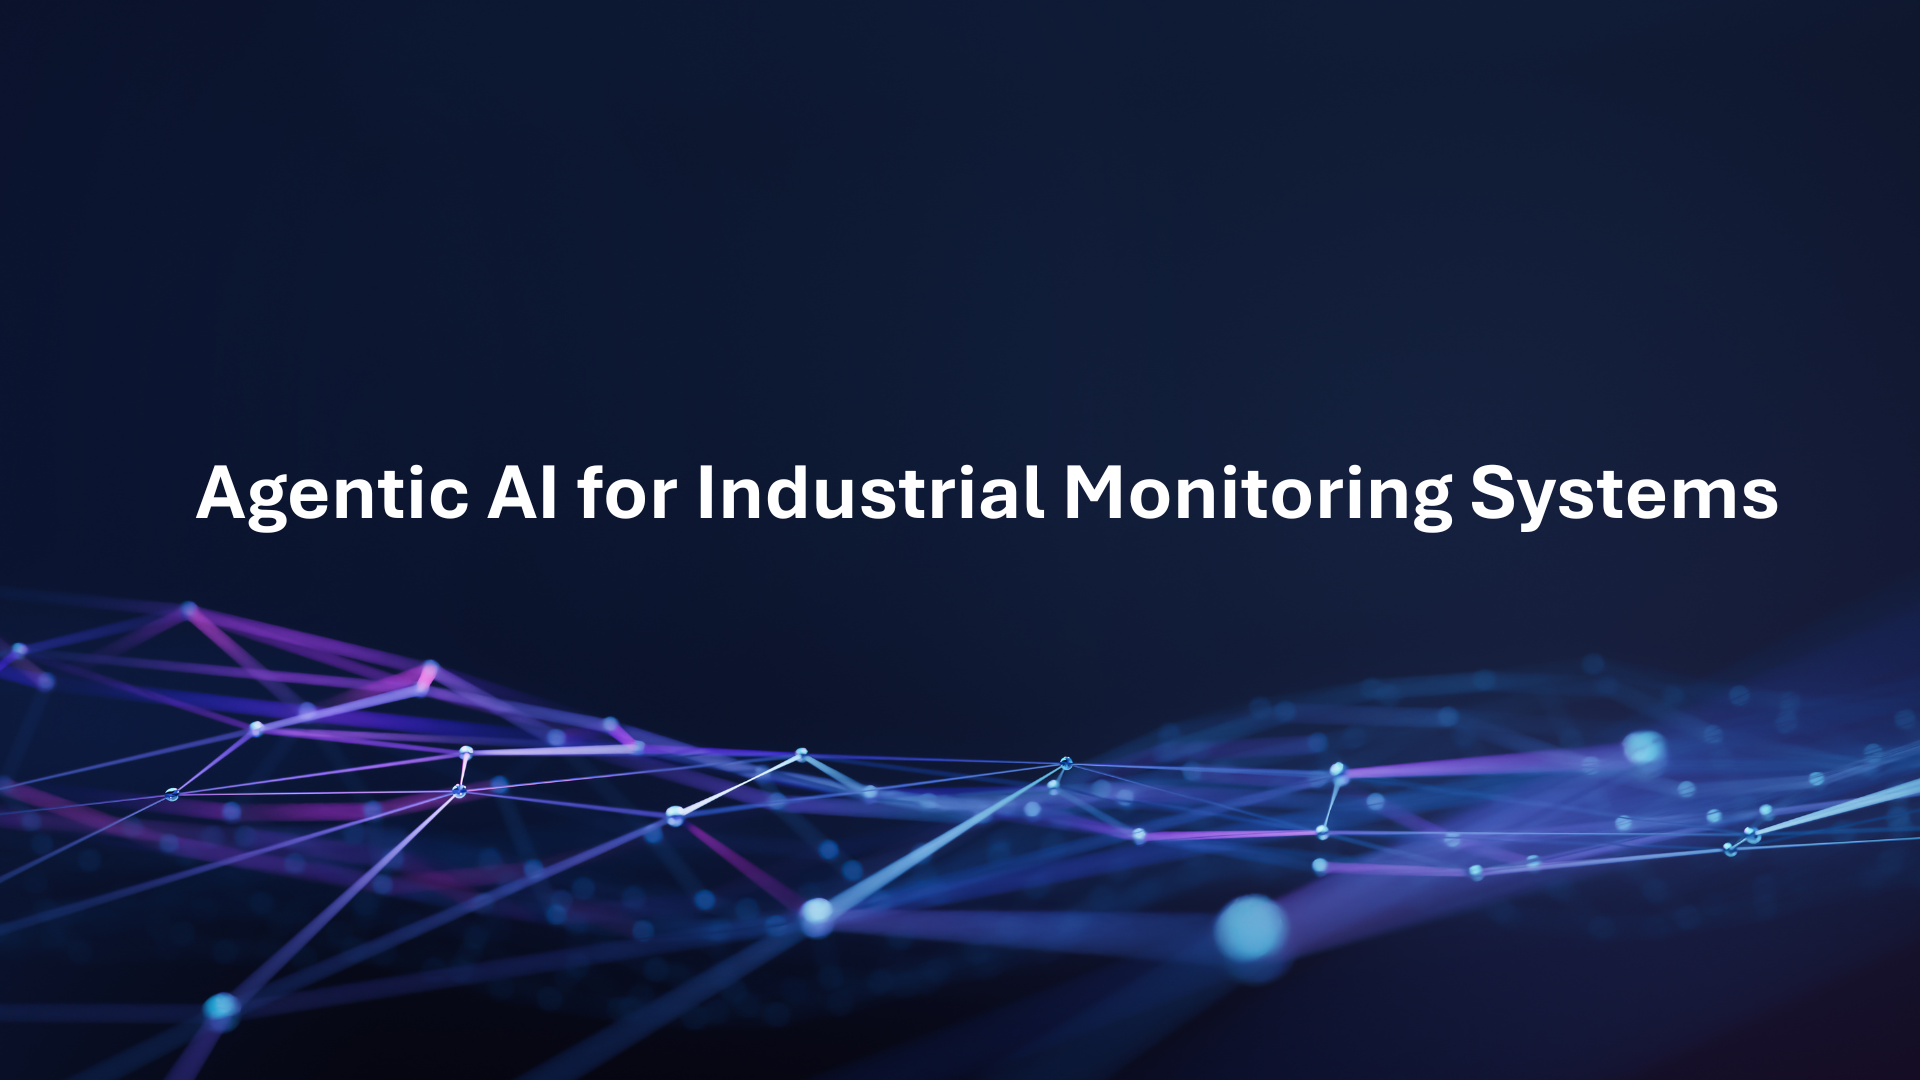
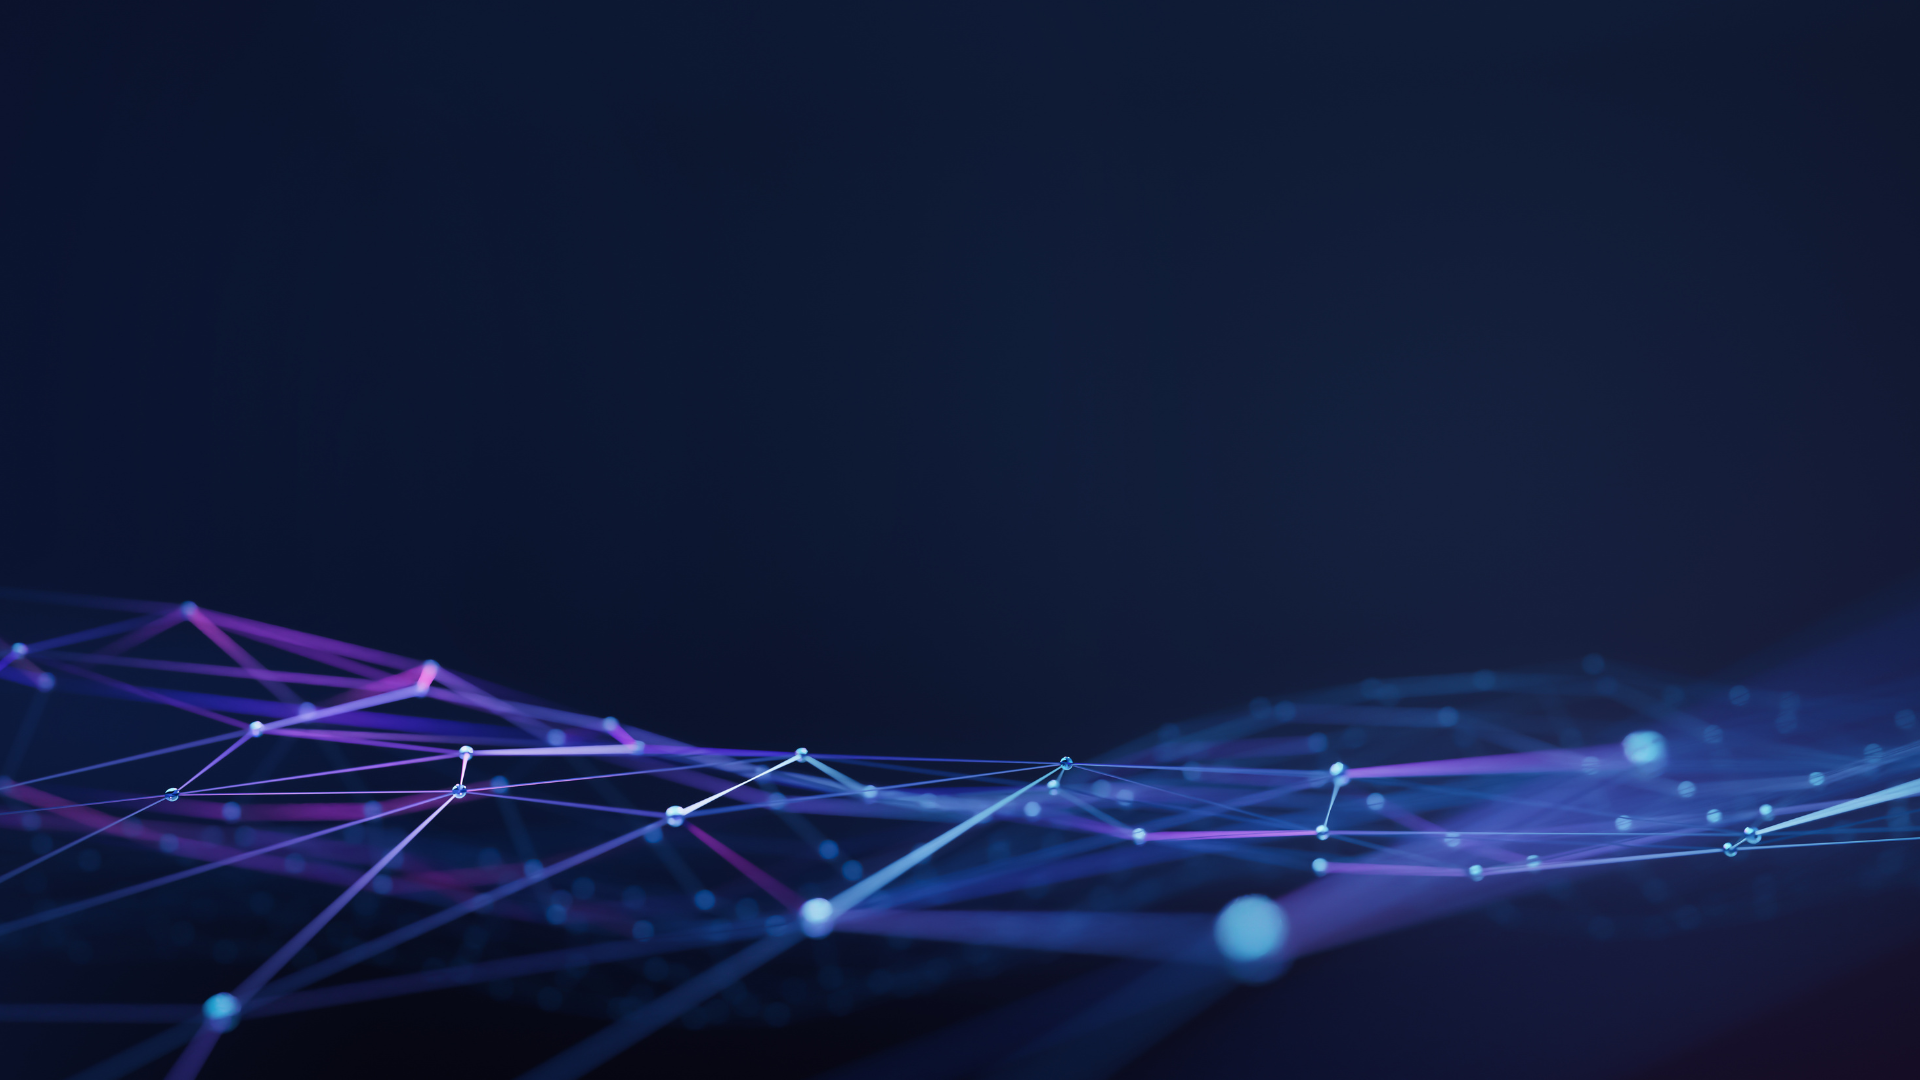
Refactor code structure for improved readability and maintainability

Changed region(s): [[0.0938, 0.4278, 0.9375, 0.4889]]

diff --git a/public/index.html b/public/index.html
@@ -69,7 +69,7 @@
   <div class="flex-l center items-center justify-between">
     <a href="/about" class="f3 fw2 hover-white white-90 dib no-underline">
       
-        Agentic AI for Industrial Monitoring Systems
+        <img src="/img/website/logo.png" class="w100 mw5-ns" alt="Agentic AI for Industrial Monitoring Systems" />
       
     </a>
     <div class="flex-l items-center">
@@ -201,20 +201,10 @@
             </a>
         </h1>
         <div class="f6 f5-l lh-copy nested-copy-line-height nested-links">
-          <div style="display: flex; align-items: flex-start; gap: 2em; margin: 2em 0;">
-    <div style="flex: 0 0 150px;">
-        <img src="/img/awards/prize.png" alt="2025" style="width:120px;height:120px;object-fit:cover;border-radius:50%;margin-bottom:0.5em;">
-    </div>
-    <div style="flex: 1;">
-        
-            <h3>2025</h3>
-        
-        <p><ul>
+          <h1 id="2025">2025</h1>
+<ul>
 <li>Best Paper Award at the XIX Workshop-School on Agents, Environments, and Applications (WESAAC 2025), Fortaleza, Brazil.</li>
 </ul>
-</p>
-    </div>
-</div>
         </div>
         <a href="/awards/" class="ba b--moon-gray bg-light-gray br2 color-inherit dib f7 hover-bg-moon-gray link mt2 ph2 pv1">read more</a>
       </div>

diff --git a/public/about/index.html b/public/about/index.html
@@ -74,7 +74,7 @@ This project aims to apply Large Language Models (LLMs), a new frontier in Gener
   <div class="flex-l center items-center justify-between">
     <a href="/about" class="f3 fw2 hover-white white-90 dib no-underline">
       
-        AAIIMS
+        <img src="/img/website/logo.png" class="w50 mw3-ns" style="border-radius: 8px;" alt="Agentic AI for Industrial Monitoring Systems" />
       
     </a>
     <div class="flex-l items-center">

diff --git a/public/awards/index.html b/public/awards/index.html
@@ -73,7 +73,7 @@ Best Paper Award at the XIX Workshop-School on Agents, Environments, and Applica
   <div class="flex-l center items-center justify-between">
     <a href="/about" class="f3 fw2 hover-white white-90 dib no-underline">
       
-        AAIIMS
+        <img src="/img/website/logo.png" class="w50 mw3-ns" style="border-radius: 8px;" alt="Agentic AI for Industrial Monitoring Systems" />
       
     </a>
     <div class="flex-l items-center">

diff --git a/public/products/index.html b/public/products/index.html
@@ -93,7 +93,7 @@ Multiagent Framework Evaluation CELMAS (Complete Evaluation for LLM Multi-Agent 
   <div class="flex-l center items-center justify-between">
     <a href="/about" class="f3 fw2 hover-white white-90 dib no-underline">
       
-        AAIIMS
+        <img src="/img/website/logo.png" class="w50 mw3-ns" style="border-radius: 8px;" alt="Agentic AI for Industrial Monitoring Systems" />
       
     </a>
     <div class="flex-l items-center">

diff --git a/public/publications/index.html b/public/publications/index.html
@@ -79,7 +79,7 @@ MOHAMED, A. H.; VILLAS, L. A.; DOS REIS, J. C. (2025). Leveraging LLM Reflection
   <div class="flex-l center items-center justify-between">
     <a href="/about" class="f3 fw2 hover-white white-90 dib no-underline">
       
-        AAIIMS
+        <img src="/img/website/logo.png" class="w50 mw3-ns" style="border-radius: 8px;" alt="Agentic AI for Industrial Monitoring Systems" />
       
     </a>
     <div class="flex-l items-center">

diff --git a/public/research/index.html b/public/research/index.html
@@ -71,7 +71,7 @@ LLM-based multi-agent systems still face several key challenges that impact thei
   <div class="flex-l center items-center justify-between">
     <a href="/about" class="f3 fw2 hover-white white-90 dib no-underline">
       
-        AAIIMS
+        <img src="/img/website/logo.png" class="w50 mw3-ns" style="border-radius: 8px;" alt="Agentic AI for Industrial Monitoring Systems" />
       
     </a>
     <div class="flex-l items-center">

diff --git a/public/contact/index.html b/public/contact/index.html
@@ -96,7 +96,7 @@ Prof. Dr. José Ricardo Pelaquim Mendes zricardo@unicamp.br">
   <div class="flex-l center items-center justify-between">
     <a href="/about" class="f3 fw2 hover-white white-90 dib no-underline">
       
-        AAIIMS
+        <img src="/img/website/logo.png" class="w50 mw3-ns" style="border-radius: 8px;" alt="Agentic AI for Industrial Monitoring Systems" />
       
     </a>
     <div class="flex-l items-center">

diff --git a/public/categories/index.html b/public/categories/index.html
@@ -69,7 +69,7 @@
   <div class="flex-l center items-center justify-between">
     <a href="/about" class="f3 fw2 hover-white white-90 dib no-underline">
       
-        Agentic AI for Industrial Monitoring Systems
+        <img src="/img/website/logo.png" class="w100 mw5-ns" alt="Agentic AI for Industrial Monitoring Systems" />
       
     </a>
     <div class="flex-l items-center">

diff --git a/public/tags/index.html b/public/tags/index.html
@@ -69,7 +69,7 @@
   <div class="flex-l center items-center justify-between">
     <a href="/about" class="f3 fw2 hover-white white-90 dib no-underline">
       
-        Agentic AI for Industrial Monitoring Systems
+        <img src="/img/website/logo.png" class="w100 mw5-ns" alt="Agentic AI for Industrial Monitoring Systems" />
       
     </a>
     <div class="flex-l items-center">

diff --git a/public/404.html b/public/404.html
@@ -64,7 +64,7 @@
   <div class="flex-l center items-center justify-between">
     <a href="/about" class="f3 fw2 hover-white white-90 dib no-underline">
       
-        AAIIMS
+        <img src="/img/website/logo.png" class="w50 mw3-ns" style="border-radius: 8px;" alt="Agentic AI for Industrial Monitoring Systems" />
       
     </a>
     <div class="flex-l items-center">

diff --git a/public/members/index.html b/public/members/index.html
@@ -79,7 +79,7 @@
   <div class="flex-l center items-center justify-between">
     <a href="/about" class="f3 fw2 hover-white white-90 dib no-underline">
       
-        AAIIMS
+        <img src="/img/website/logo.png" class="w50 mw3-ns" style="border-radius: 8px;" alt="Agentic AI for Industrial Monitoring Systems" />
       
     </a>
     <div class="flex-l items-center">
